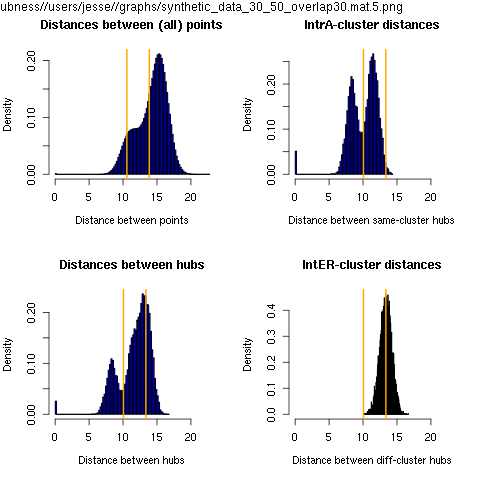
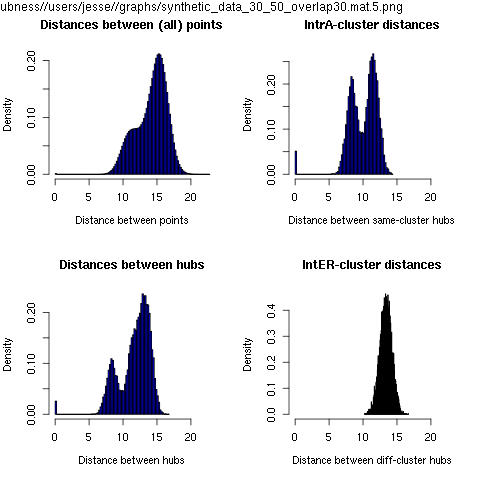
Jesse slides done now maybe

diff --git a/doc/icermfinal/pres.tex b/doc/icermfinal/pres.tex
@@ -94,12 +94,22 @@ Can hubs help us cluster?
 \begin{frame}
 \frametitle{Distances with synthetic data}
 \centering
-\includegraphics[width=.7\textwidth]{{fig/unif-dim60-1000-3000.mat.10}.png}
-% 39 hubs in the first cluster, 140 in the second
-% (78% of hubs, 22% of hubs)
+\includegraphics[width=.7\textwidth]{{fig/gaussians_1000_5000_60.mat.10}.png}
+%              class0 class1
+%   points       1000   3000
+%   hubs          33     211 
+%  %hubs/class     
 \end{frame}
 
-%------------------------------------------------
+\begin{frame}
+\frametitle{Distances with (other) synthetic data}
+\centering
+\includegraphics[width=.7\textwidth]{{fig/synthetic_data_30_50_overlap30.mat.10}.png}
+%              class0 class1
+%   points       2500   2500
+%   hubs           93    102
+%  %hubs/class     48     52
+\end{frame}
 
 \begin{frame}
 \frametitle{Distances with real data}
